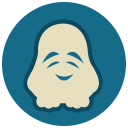
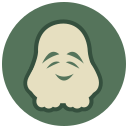
Adopt sage accents across Nupp branding

diff --git a/docs/public/nupp.css b/docs/public/nupp.css
@@ -1,18 +1,18 @@
 :root {
   --nupp-woodblock-vermilion: #a74732;
   --nupp-woodblock-vermilion-hover: #8d3829;
-  --nuppdoc-light-accent: #176b8a;
-  --nuppdoc-light-accent-hover: #0e526d;
-  --nuppdoc-light-accent-soft: #dcebf0;
+  --nuppdoc-light-accent: #55745b;
+  --nuppdoc-light-accent-hover: #3f5946;
+  --nuppdoc-light-accent-soft: #e1eadc;
   --nuppdoc-light-background: #faf7e8;
   --nuppdoc-light-background-alt: #f2eed8;
   --nuppdoc-light-border: #d4cda8;
   --nuppdoc-light-code-background: #ded7b9;
   --nuppdoc-light-text: #173333;
   --nuppdoc-light-muted: #626956;
-  --nuppdoc-dark-accent: #72b6d0;
-  --nuppdoc-dark-accent-hover: #9ed2e3;
-  --nuppdoc-dark-accent-soft: #183c4a;
+  --nuppdoc-dark-accent: #a7c49b;
+  --nuppdoc-dark-accent-hover: #c3d7b9;
+  --nuppdoc-dark-accent-soft: #233b34;
   --nuppdoc-dark-background: #081e27;
   --nuppdoc-dark-background-alt: #0d2931;
   --nuppdoc-dark-border: #2b4943;
